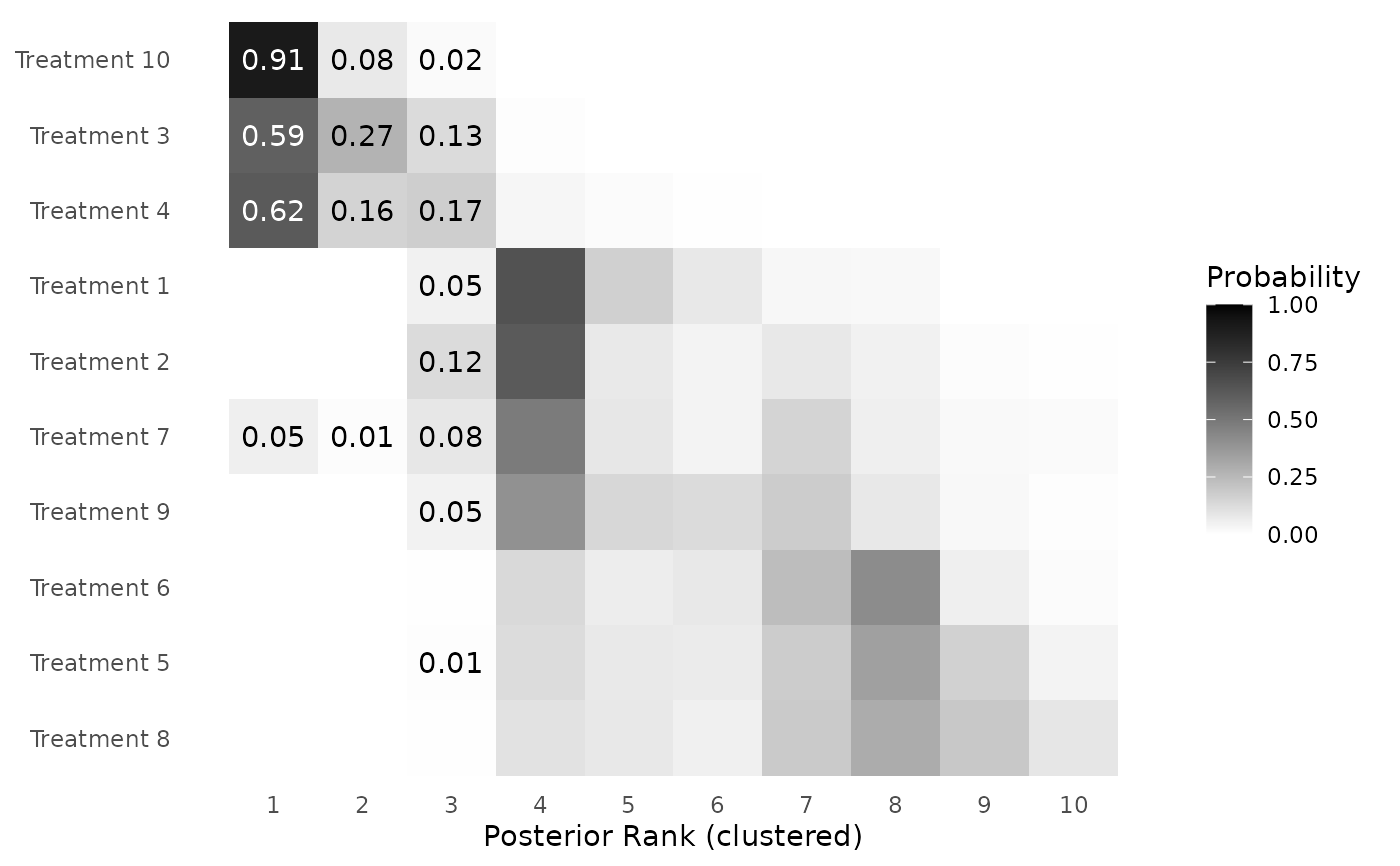
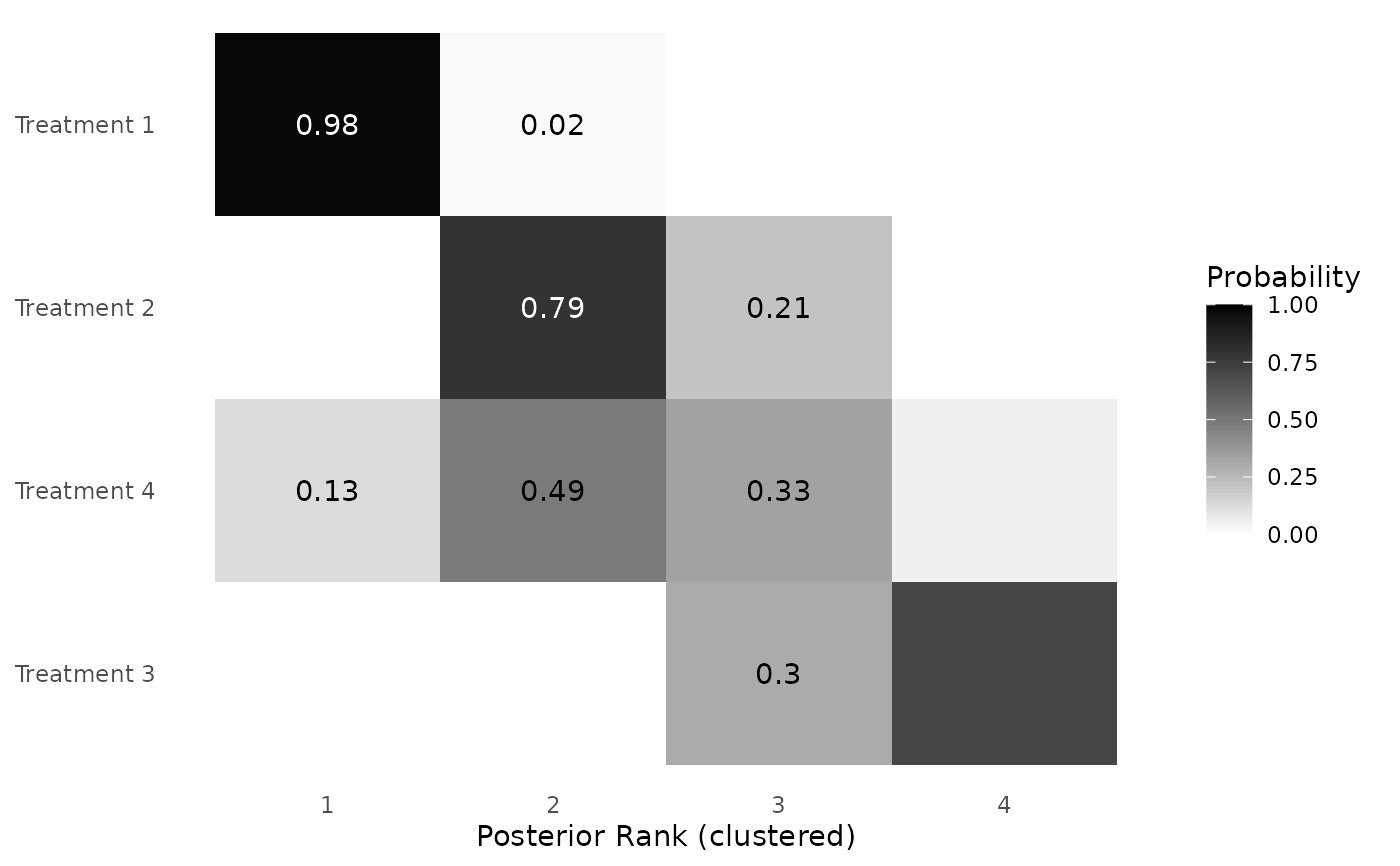
Deploying to gh-pages from @ pearce790/RaCE.NMA@8be2d29c6669a08feefa028acdc80fd268c92a4a 🚀

diff --git a/articles/reproducibility.html b/articles/reproducibility.html
@@ -92,7 +92,8 @@
 in the paper associated with this R package. Specifically, we reproduce
 two simulation studies (Sections 3.1 and 3.2) and a case study (Section
 4). We assume knowledge of the associated R package functions; please
-refer to the “Tutorial” and “Reference” pages for more information.</p>
+refer to the “Tutorial” and “Reference” pages for more information. No
+figures are produced; see paper.</p>
 <div class="section level2">
 <h2 id="reproduction-of-simulation-study-1-section-3-1">Reproduction of Simulation Study 1 (Section 3.1)<a class="anchor" aria-label="anchor" href="#reproduction-of-simulation-study-1-section-3-1"></a>
 </h2>
@@ -117,7 +118,6 @@ refer to the “Tutorial” and “Reference” pages for more information.</p>
 <span>  <span class="fu"><a href="https://ggplot2.tidyverse.org/reference/ggtheme.html" class="external-link">theme_bw</a></span><span class="op">(</span><span class="op">)</span><span class="op">+</span><span class="fu"><a href="https://ggplot2.tidyverse.org/reference/labs.html" class="external-link">labs</a></span><span class="op">(</span>x<span class="op">=</span><span class="st">" "</span>,y<span class="op">=</span><span class="cn">NULL</span>,subtitle<span class="op">=</span><span class="fu"><a href="https://rdrr.io/r/base/expression.html" class="external-link">expression</a></span><span class="op">(</span><span class="fu"><a href="https://rdrr.io/r/stats/influence.measures.html" class="external-link">hat</a></span><span class="op">(</span><span class="va">sigma</span><span class="op">)</span><span class="op">~</span><span class="st">"=0.5"</span><span class="op">)</span><span class="op">)</span><span class="op">+</span></span>
 <span>  <span class="fu"><a href="https://ggplot2.tidyverse.org/reference/theme.html" class="external-link">theme</a></span><span class="op">(</span>panel.grid.minor <span class="op">=</span> <span class="fu"><a href="https://ggplot2.tidyverse.org/reference/element.html" class="external-link">element_blank</a></span><span class="op">(</span><span class="op">)</span>,panel.grid.major.y <span class="op">=</span> <span class="fu"><a href="https://ggplot2.tidyverse.org/reference/element.html" class="external-link">element_blank</a></span><span class="op">(</span><span class="op">)</span><span class="op">)</span></span>
 <span><span class="fu"><a href="https://rdrr.io/pkg/gridExtra/man/arrangeGrob.html" class="external-link">grid.arrange</a></span><span class="op">(</span><span class="va">g1a</span>,<span class="va">g1b</span>,<span class="va">g1c</span>,nrow<span class="op">=</span><span class="fl">1</span><span class="op">)</span></span></code></pre></div>
-<p><img src="reproducibility_files/figure-html/unnamed-chunk-3-1.png" class="r-plt" alt="" width="700"></p>
 <p>The following code reproduces Figure 2: First, we perform a
 simulation study. Second, we create the figure.</p>
 <div class="sourceCode" id="cb3"><pre class="downlit sourceCode r">
@@ -183,7 +183,6 @@ simulation study. Second, we create the figure.</p>
 <span>  <span class="fu"><a href="https://ggplot2.tidyverse.org/reference/theme.html" class="external-link">theme</a></span><span class="op">(</span>legend.position <span class="op">=</span> <span class="st">"bottom"</span>,</span>
 <span>        panel.grid.minor <span class="op">=</span> <span class="fu"><a href="https://ggplot2.tidyverse.org/reference/element.html" class="external-link">element_blank</a></span><span class="op">(</span><span class="op">)</span>,</span>
 <span>        panel.grid.major.x <span class="op">=</span> <span class="fu"><a href="https://ggplot2.tidyverse.org/reference/element.html" class="external-link">element_blank</a></span><span class="op">(</span><span class="op">)</span><span class="op">)</span></span></code></pre></div>
-<p><img src="reproducibility_files/figure-html/unnamed-chunk-5-1.png" class="r-plt" alt="" width="700"></p>
 </div>
 <div class="section level2">
 <h2 id="reproduction-of-simulation-study-2-section-3-2">Reproduction of Simulation Study 2 (Section 3.2)<a class="anchor" aria-label="anchor" href="#reproduction-of-simulation-study-2-section-3-2"></a>
@@ -198,7 +197,6 @@ simulation study. Second, we create the figure.</p>
 <span><span class="va">data</span> <span class="op">&lt;-</span> <span class="fu"><a href="https://rdrr.io/r/base/matrix.html" class="external-link">matrix</a></span><span class="op">(</span>data <span class="op">=</span> <span class="fu"><a href="https://rdrr.io/r/stats/Normal.html" class="external-link">rnorm</a></span><span class="op">(</span><span class="fl">10000</span><span class="op">*</span><span class="fl">4</span>,mean<span class="op">=</span><span class="va">mu_hat</span>,sd<span class="op">=</span><span class="va">s</span><span class="op">)</span>, ncol <span class="op">=</span> <span class="fl">4</span>, byrow <span class="op">=</span> <span class="cn">TRUE</span><span class="op">)</span></span>
 <span></span>
 <span><span class="fu"><a href="../reference/forestplot_muhat.html">forestplot_muhat</a></span><span class="op">(</span>data <span class="op">=</span> <span class="va">data</span>, order_by_average <span class="op">=</span> <span class="cn">FALSE</span><span class="op">)</span></span></code></pre></div>
-<p><img src="reproducibility_files/figure-html/unnamed-chunk-6-1.png" class="r-plt" alt="" width="700"></p>
 <p>The following code reproduces Table 1: First, we fit the RaCE model
 to the simulated data. Second, we calculate and display the values in
 Table 1.</p>
@@ -211,12 +209,7 @@ Table 1.</p>
 <span><span class="kw">for</span><span class="op">(</span><span class="va">i</span> <span class="kw">in</span> <span class="fl">1</span><span class="op">:</span><span class="op">(</span><span class="va">J</span><span class="op">-</span><span class="fl">1</span><span class="op">)</span><span class="op">)</span><span class="op">{</span><span class="kw">for</span><span class="op">(</span><span class="va">j</span> <span class="kw">in</span> <span class="op">(</span><span class="va">i</span><span class="op">+</span><span class="fl">1</span><span class="op">)</span><span class="op">:</span><span class="va">J</span><span class="op">)</span><span class="op">{</span></span>
 <span>  <span class="va">posterior_equal</span><span class="op">[</span><span class="va">i</span>,<span class="va">j</span><span class="op">]</span> <span class="op">&lt;-</span> <span class="fu"><a href="https://rdrr.io/r/base/mean.html" class="external-link">mean</a></span><span class="op">(</span><span class="va">mcmc</span><span class="op">[</span>,<span class="fu"><a href="https://rdrr.io/r/base/paste.html" class="external-link">paste0</a></span><span class="op">(</span><span class="st">"G"</span>,<span class="va">i</span><span class="op">)</span><span class="op">]</span> <span class="op">==</span> <span class="va">mcmc</span><span class="op">[</span>,<span class="fu"><a href="https://rdrr.io/r/base/paste.html" class="external-link">paste0</a></span><span class="op">(</span><span class="st">"G"</span>,<span class="va">j</span><span class="op">)</span><span class="op">]</span><span class="op">)</span></span>
 <span><span class="op">}</span><span class="op">}</span></span>
-<span><span class="fu"><a href="https://rdrr.io/r/base/Round.html" class="external-link">round</a></span><span class="op">(</span><span class="va">posterior_equal</span>,<span class="fl">2</span><span class="op">)</span></span>
-<span><span class="co">##      [,1] [,2] [,3] [,4]</span></span>
-<span><span class="co">## [1,]   NA    0    0 0.18</span></span>
-<span><span class="co">## [2,]   NA   NA    0 0.40</span></span>
-<span><span class="co">## [3,]   NA   NA   NA 0.19</span></span>
-<span><span class="co">## [4,]   NA   NA   NA   NA</span></span></code></pre></div>
+<span><span class="fu"><a href="https://rdrr.io/r/base/Round.html" class="external-link">round</a></span><span class="op">(</span><span class="va">posterior_equal</span>,<span class="fl">2</span><span class="op">)</span></span></code></pre></div>
 <p>The following code reproduces Figure 4: First, we calculate the
 posterior rank-clustering probability under a traditional model (i.e.,
 assumption of distinct ranks). Second, we calculate the posterior
@@ -263,7 +256,6 @@ the figure.</p>
 <span>                    labels <span class="op">=</span> <span class="fu"><a href="https://rdrr.io/r/base/c.html" class="external-link">c</a></span><span class="op">(</span><span class="st">'A'</span>, <span class="st">'B'</span><span class="op">)</span>, label_size <span class="op">=</span> <span class="fl">12</span><span class="op">)</span>,</span>
 <span>          <span class="fu"><a href="https://wilkelab.org/cowplot/reference/get_plot_component.html" class="external-link">get_plot_component</a></span><span class="op">(</span><span class="va">g4a</span>, <span class="st">'guide-box-bottom'</span>, return_all <span class="op">=</span> <span class="cn">TRUE</span><span class="op">)</span>,</span>
 <span>          nrow<span class="op">=</span><span class="fl">2</span>,rel_heights <span class="op">=</span> <span class="fu"><a href="https://rdrr.io/r/base/c.html" class="external-link">c</a></span><span class="op">(</span><span class="fl">.9</span>,<span class="fl">.1</span><span class="op">)</span> <span class="op">)</span></span></code></pre></div>
-<p><img src="reproducibility_files/figure-html/fig.asp-0.6-1.png" class="r-plt" alt="" width="700"></p>
 </div>
 <div class="section level2">
 <h2 id="reproduction-of-case-study-section-4">Reproduction of Case Study (Section 4)<a class="anchor" aria-label="anchor" href="#reproduction-of-case-study-section-4"></a>
@@ -287,7 +279,6 @@ the mean and covariances of the relative treatment effects.</p>
 <p>The following code chunk reproduces Figure 5.</p>
 <div class="sourceCode" id="cb9"><pre class="downlit sourceCode r">
 <code class="sourceCode R"><span><span class="fu"><a href="../reference/forestplot_muhat.html">forestplot_muhat</a></span><span class="op">(</span>data<span class="op">=</span><span class="va">wang_posterior</span>,names<span class="op">=</span><span class="va">treatments</span><span class="op">[</span><span class="op">-</span><span class="fl">1</span><span class="op">]</span><span class="op">)</span></span></code></pre></div>
-<p><img src="reproducibility_files/figure-html/unnamed-chunk-9-1.png" class="r-plt" alt="" width="700"></p>
 <p>Next, we fit the RaCE model to estimated relative treatment effects
 from Wang et al. (2022).</p>
 <div class="sourceCode" id="cb10"><pre class="downlit sourceCode r">
@@ -308,10 +299,8 @@ create each in turn.</p>
 <span>                    <span class="va">g9b</span><span class="op">+</span><span class="fu"><a href="https://ggplot2.tidyverse.org/reference/theme.html" class="external-link">theme</a></span><span class="op">(</span>legend.position <span class="op">=</span> <span class="st">"none"</span><span class="op">)</span>, </span>
 <span>                    labels <span class="op">=</span> <span class="fu"><a href="https://rdrr.io/r/base/c.html" class="external-link">c</a></span><span class="op">(</span><span class="st">'A'</span>, <span class="st">'B'</span><span class="op">)</span>, label_size <span class="op">=</span> <span class="fl">12</span><span class="op">)</span>,</span>
 <span>          <span class="fu"><a href="https://wilkelab.org/cowplot/reference/get_plot_component.html" class="external-link">get_plot_component</a></span><span class="op">(</span><span class="va">g9a</span>, <span class="st">'guide-box-bottom'</span>, return_all <span class="op">=</span> <span class="cn">TRUE</span><span class="op">)</span>,</span>
-<span>          nrow<span class="op">=</span><span class="fl">2</span>,rel_heights <span class="op">=</span> <span class="fu"><a href="https://rdrr.io/r/base/c.html" class="external-link">c</a></span><span class="op">(</span><span class="fl">.9</span>,<span class="fl">.1</span><span class="op">)</span><span class="op">)</span></span></code></pre></div>
-<p><img src="reproducibility_files/figure-html/unnamed-chunk-11-1.png" class="r-plt" alt="" width="700"></p>
-<div class="sourceCode" id="cb12"><pre class="downlit sourceCode r">
-<code class="sourceCode R"><span><span class="co"># Figure 7</span></span>
+<span>          nrow<span class="op">=</span><span class="fl">2</span>,rel_heights <span class="op">=</span> <span class="fu"><a href="https://rdrr.io/r/base/c.html" class="external-link">c</a></span><span class="op">(</span><span class="fl">.9</span>,<span class="fl">.1</span><span class="op">)</span><span class="op">)</span></span>
+<span><span class="co"># Figure 7</span></span>
 <span><span class="va">g10a</span> <span class="op">&lt;-</span> <span class="fu"><a href="../reference/cumulativeprobplot_ranks.html">cumulativeprobplot_ranks</a></span><span class="op">(</span>data<span class="op">=</span><span class="fu"><a href="https://rdrr.io/r/base/cbind.html" class="external-link">cbind</a></span><span class="op">(</span><span class="fl">0</span>,<span class="va">wang_posterior</span><span class="op">)</span>,names<span class="op">=</span><span class="va">treatments</span><span class="op">)</span><span class="op">+</span></span>
 <span>  <span class="fu"><a href="https://ggplot2.tidyverse.org/reference/theme.html" class="external-link">theme</a></span><span class="op">(</span>legend.position <span class="op">=</span> <span class="st">"bottom"</span><span class="op">)</span> <span class="op">+</span></span>
 <span>  <span class="fu"><a href="https://ggplot2.tidyverse.org/reference/guides.html" class="external-link">guides</a></span><span class="op">(</span>color <span class="op">=</span> <span class="fu"><a href="https://ggplot2.tidyverse.org/reference/guide_legend.html" class="external-link">guide_legend</a></span><span class="op">(</span>nrow <span class="op">=</span> <span class="fl">2</span><span class="op">)</span><span class="op">)</span></span>
@@ -319,43 +308,24 @@ create each in turn.</p>
 <span><span class="fu"><a href="https://wilkelab.org/cowplot/reference/plot_grid.html" class="external-link">plot_grid</a></span><span class="op">(</span><span class="fu"><a href="https://wilkelab.org/cowplot/reference/plot_grid.html" class="external-link">plot_grid</a></span><span class="op">(</span><span class="va">g10a</span><span class="op">+</span><span class="fu"><a href="https://ggplot2.tidyverse.org/reference/theme.html" class="external-link">theme</a></span><span class="op">(</span>legend.position <span class="op">=</span> <span class="st">"none"</span><span class="op">)</span>, <span class="va">g10b</span><span class="op">+</span><span class="fu"><a href="https://ggplot2.tidyverse.org/reference/theme.html" class="external-link">theme</a></span><span class="op">(</span>legend.position <span class="op">=</span> <span class="st">"none"</span><span class="op">)</span>, </span>
 <span>                        labels <span class="op">=</span> <span class="fu"><a href="https://rdrr.io/r/base/c.html" class="external-link">c</a></span><span class="op">(</span><span class="st">'A'</span>, <span class="st">'B'</span><span class="op">)</span>, label_size <span class="op">=</span> <span class="fl">12</span><span class="op">)</span>,</span>
 <span>              <span class="fu"><a href="https://wilkelab.org/cowplot/reference/get_plot_component.html" class="external-link">get_plot_component</a></span><span class="op">(</span><span class="va">g10a</span>, <span class="st">'guide-box-bottom'</span>, return_all <span class="op">=</span> <span class="cn">TRUE</span><span class="op">)</span>,</span>
-<span>          nrow<span class="op">=</span><span class="fl">2</span>,rel_heights <span class="op">=</span> <span class="fu"><a href="https://rdrr.io/r/base/c.html" class="external-link">c</a></span><span class="op">(</span><span class="fl">.85</span>,<span class="fl">.15</span><span class="op">)</span> <span class="op">)</span></span></code></pre></div>
-<p><img src="reproducibility_files/figure-html/unnamed-chunk-11-2.png" class="r-plt" alt="" width="700"></p>
-<div class="sourceCode" id="cb13"><pre class="downlit sourceCode r">
-<code class="sourceCode R"><span><span class="co"># Table 2</span></span>
+<span>          nrow<span class="op">=</span><span class="fl">2</span>,rel_heights <span class="op">=</span> <span class="fu"><a href="https://rdrr.io/r/base/c.html" class="external-link">c</a></span><span class="op">(</span><span class="fl">.85</span>,<span class="fl">.15</span><span class="op">)</span> <span class="op">)</span></span>
+<span><span class="co"># Table 2</span></span>
 <span><span class="va">res_WANG</span> <span class="op">&lt;-</span> <span class="fu"><a href="../reference/calculate_SUCRA_MNBT.html">calculate_SUCRA_MNBT</a></span><span class="op">(</span>data <span class="op">=</span> <span class="fu"><a href="https://rdrr.io/r/base/cbind.html" class="external-link">cbind</a></span><span class="op">(</span><span class="fl">0</span>,<span class="va">wang_posterior</span><span class="op">)</span>,</span>
 <span>                                 level <span class="op">=</span> <span class="fl">0.50</span>, names <span class="op">=</span> <span class="va">treatments</span><span class="op">)</span></span>
 <span><span class="va">res_RaCENMA</span> <span class="op">&lt;-</span> <span class="fu"><a href="../reference/calculate_SUCRA_MNBT.html">calculate_SUCRA_MNBT</a></span><span class="op">(</span>mcmc <span class="op">=</span> <span class="va">mcmc</span>, level <span class="op">=</span> <span class="fl">0.50</span>, names <span class="op">=</span> <span class="va">treatments</span><span class="op">)</span></span>
 <span><span class="va">table2</span> <span class="op">&lt;-</span> <span class="fu"><a href="https://dplyr.tidyverse.org/reference/mutate-joins.html" class="external-link">left_join</a></span><span class="op">(</span><span class="va">res_WANG</span>,<span class="va">res_RaCENMA</span>,by<span class="op">=</span><span class="st">"Treatment"</span><span class="op">)</span><span class="op">[</span>,<span class="fu"><a href="https://rdrr.io/r/base/c.html" class="external-link">c</a></span><span class="op">(</span><span class="fl">1</span>,<span class="fl">2</span>,<span class="fl">4</span>,<span class="fl">3</span>,<span class="fl">5</span><span class="op">)</span><span class="op">]</span></span>
 <span><span class="fu"><a href="https://rdrr.io/r/base/names.html" class="external-link">names</a></span><span class="op">(</span><span class="va">table2</span><span class="op">)</span> <span class="op">&lt;-</span> <span class="fu"><a href="https://rdrr.io/r/base/c.html" class="external-link">c</a></span><span class="op">(</span><span class="st">"Treatment"</span>,<span class="st">"SUCRA (Wang)"</span>,<span class="st">"SUCRA (RaCE)"</span>,<span class="st">"MNBT (Wang)"</span>,<span class="st">"MNBT (RaCE)"</span><span class="op">)</span></span>
-<span><span class="fu"><a href="https://rdrr.io/r/base/print.html" class="external-link">print</a></span><span class="op">(</span><span class="va">table2</span><span class="op">)</span></span>
-<span><span class="co">##     Treatment SUCRA (Wang) SUCRA (RaCE) MNBT (Wang) MNBT (RaCE)</span></span>
-<span><span class="co">## 1   G-Benda-G   0.96674667    0.9923444    0 (0, 1)    0 (0, 0)</span></span>
-<span><span class="co">## 2  R-Benda-R4   0.88424167    0.9427304    1 (0, 1)    0 (0, 1)</span></span>
-<span><span class="co">## 3   R-Benda-R   0.81178500    0.9245186    2 (2, 2)    1 (0, 1)</span></span>
-<span><span class="co">## 4    G-CHOP-G   0.66349833    0.6473594    3 (3, 4)    3 (3, 4)</span></span>
-<span><span class="co">## 5    R-CHOP-R   0.51395000    0.6574624    5 (4, 5)    3 (3, 4)</span></span>
-<span><span class="co">## 6    R-2(Len)   0.50069000    0.6042736    5 (4, 6)    3 (3, 5)</span></span>
-<span><span class="co">## 7     R-Benda   0.48215000    0.6565974    5 (4, 6)    3 (3, 4)</span></span>
-<span><span class="co">## 8     G-CVP-G   0.27813667    0.2760538    7 (6, 8)    7 (7, 8)</span></span>
-<span><span class="co">## 9      R-CHOP   0.18591667    0.2787232    8 (7, 9)    7 (7, 8)</span></span>
-<span><span class="co">## 10    R-CVP-R   0.15917167    0.2958426    8 (8, 9)    7 (7, 7)</span></span>
-<span><span class="co">## 11      R-CVP   0.05371333    0.2644622  10 (9, 10)    7 (7, 8)</span></span></code></pre></div>
+<span><span class="fu"><a href="https://rdrr.io/r/base/print.html" class="external-link">print</a></span><span class="op">(</span><span class="va">table2</span><span class="op">)</span></span></code></pre></div>
 <p>The following code chunk reproduces the Figures 8–10 (Appendix
 B).</p>
-<div class="sourceCode" id="cb14"><pre class="downlit sourceCode r">
+<div class="sourceCode" id="cb12"><pre class="downlit sourceCode r">
 <code class="sourceCode R"><span><span class="fu"><a href="../reference/traceplot_K.html">traceplot_K</a></span><span class="op">(</span><span class="va">mcmc</span><span class="op">)</span><span class="op">+</span></span>
 <span>  <span class="fu"><a href="https://ggplot2.tidyverse.org/reference/scale_continuous.html" class="external-link">scale_x_continuous</a></span><span class="op">(</span>breaks<span class="op">=</span><span class="fu"><a href="https://rdrr.io/r/base/seq.html" class="external-link">seq</a></span><span class="op">(</span><span class="fl">125000</span>,<span class="fl">250000</span>,by<span class="op">=</span><span class="fl">25000</span><span class="op">)</span>,</span>
-<span>                     labels<span class="op">=</span><span class="fu"><a href="https://rdrr.io/r/base/paste.html" class="external-link">paste0</a></span><span class="op">(</span><span class="fu"><a href="https://rdrr.io/r/base/seq.html" class="external-link">seq</a></span><span class="op">(</span><span class="fl">125</span>,<span class="fl">250</span>,by<span class="op">=</span><span class="fl">25</span><span class="op">)</span>,<span class="st">"k"</span><span class="op">)</span><span class="op">)</span></span></code></pre></div>
-<p><img src="reproducibility_files/figure-html/unnamed-chunk-12-1.png" class="r-plt" alt="" width="700"></p>
-<div class="sourceCode" id="cb15"><pre class="downlit sourceCode r">
-<code class="sourceCode R"><span><span class="fu"><a href="../reference/traceplot_mu.html">traceplot_mu</a></span><span class="op">(</span><span class="va">mcmc</span>,names<span class="op">=</span><span class="va">treatments</span><span class="op">)</span><span class="op">+</span></span>
+<span>                     labels<span class="op">=</span><span class="fu"><a href="https://rdrr.io/r/base/paste.html" class="external-link">paste0</a></span><span class="op">(</span><span class="fu"><a href="https://rdrr.io/r/base/seq.html" class="external-link">seq</a></span><span class="op">(</span><span class="fl">125</span>,<span class="fl">250</span>,by<span class="op">=</span><span class="fl">25</span><span class="op">)</span>,<span class="st">"k"</span><span class="op">)</span><span class="op">)</span></span>
+<span><span class="fu"><a href="../reference/traceplot_mu.html">traceplot_mu</a></span><span class="op">(</span><span class="va">mcmc</span>,names<span class="op">=</span><span class="va">treatments</span><span class="op">)</span><span class="op">+</span></span>
 <span>  <span class="fu"><a href="https://ggplot2.tidyverse.org/reference/scale_continuous.html" class="external-link">scale_x_continuous</a></span><span class="op">(</span>breaks<span class="op">=</span><span class="fu"><a href="https://rdrr.io/r/base/seq.html" class="external-link">seq</a></span><span class="op">(</span><span class="fl">125000</span>,<span class="fl">250000</span>,by<span class="op">=</span><span class="fl">25000</span><span class="op">)</span>,</span>
-<span>                     labels<span class="op">=</span><span class="fu"><a href="https://rdrr.io/r/base/paste.html" class="external-link">paste0</a></span><span class="op">(</span><span class="fu"><a href="https://rdrr.io/r/base/seq.html" class="external-link">seq</a></span><span class="op">(</span><span class="fl">125</span>,<span class="fl">250</span>,by<span class="op">=</span><span class="fl">25</span><span class="op">)</span>,<span class="st">"k"</span><span class="op">)</span><span class="op">)</span></span></code></pre></div>
-<p><img src="reproducibility_files/figure-html/unnamed-chunk-12-2.png" class="r-plt" alt="" width="700"></p>
-<div class="sourceCode" id="cb16"><pre class="downlit sourceCode r">
-<code class="sourceCode R"><span><span class="fu"><a href="../reference/forestplot_muhat.html">forestplot_muhat</a></span><span class="op">(</span>mcmc<span class="op">=</span><span class="va">mcmc</span>,names<span class="op">=</span><span class="va">treatments</span><span class="op">)</span></span></code></pre></div>
-<p><img src="reproducibility_files/figure-html/unnamed-chunk-12-3.png" class="r-plt" alt="" width="700"></p>
+<span>                     labels<span class="op">=</span><span class="fu"><a href="https://rdrr.io/r/base/paste.html" class="external-link">paste0</a></span><span class="op">(</span><span class="fu"><a href="https://rdrr.io/r/base/seq.html" class="external-link">seq</a></span><span class="op">(</span><span class="fl">125</span>,<span class="fl">250</span>,by<span class="op">=</span><span class="fl">25</span><span class="op">)</span>,<span class="st">"k"</span><span class="op">)</span><span class="op">)</span></span>
+<span><span class="fu"><a href="../reference/forestplot_muhat.html">forestplot_muhat</a></span><span class="op">(</span>mcmc<span class="op">=</span><span class="va">mcmc</span>,names<span class="op">=</span><span class="va">treatments</span><span class="op">)</span></span></code></pre></div>
 </div>
   </div>
 

diff --git a/reference/clusterplot_ranks.html b/reference/clusterplot_ranks.html
@@ -89,8 +89,8 @@
 
     <div id="ref-examples">
     <h2>Examples</h2>
-    <div class="sourceCode"><pre class="sourceCode r"><code><span class="r-in"><span><span class="fu"><a href="https://rdrr.io/r/utils/data.html" class="external-link">data</a></span><span class="op">(</span><span class="st">"wang_posterior"</span><span class="op">)</span></span></span>
-<span class="r-in"><span><span class="va">mcmc</span> <span class="op">&lt;-</span> <span class="fu"><a href="mcmc_raceNMA.html">mcmc_raceNMA</a></span><span class="op">(</span>posterior<span class="op">=</span><span class="va">wang_posterior</span>,iter<span class="op">=</span><span class="fl">2000</span><span class="op">)</span></span></span>
+    <div class="sourceCode"><pre class="sourceCode r"><code><span class="r-in"><span><span class="fu"><a href="https://rdrr.io/r/utils/data.html" class="external-link">data</a></span><span class="op">(</span><span class="st">"toy_data"</span><span class="op">)</span></span></span>
+<span class="r-in"><span><span class="va">mcmc</span> <span class="op">&lt;-</span> <span class="fu"><a href="mcmc_raceNMA.html">mcmc_raceNMA</a></span><span class="op">(</span>posterior<span class="op">=</span><span class="va">toy_data</span>,iter<span class="op">=</span><span class="fl">500</span><span class="op">)</span></span></span>
 <span class="r-out co"><span class="r-pr">#&gt;</span> [1] "Estimating chain 1 of 2."</span>
 <span class="r-out co"><span class="r-pr">#&gt;</span> [1] "Estimating chain 2 of 2."</span>
 <span class="r-in"><span><span class="fu">clusterplot_ranks</span><span class="op">(</span>mcmc<span class="op">=</span><span class="va">mcmc</span>,names<span class="op">=</span><span class="fu"><a href="https://rdrr.io/r/base/paste.html" class="external-link">paste0</a></span><span class="op">(</span><span class="st">"Treatment "</span>,<span class="fl">1</span><span class="op">:</span><span class="fl">10</span><span class="op">)</span>,label_ranks<span class="op">=</span><span class="fl">1</span><span class="op">:</span><span class="fl">3</span><span class="op">)</span></span></span>

diff --git a/news/index.html b/news/index.html
@@ -55,7 +55,8 @@
 
     <div class="section level2">
 <h2 class="page-header" data-toc-text="1.0.0" id="racenma-100">RaCE.NMA 1.0.0<a class="anchor" aria-label="anchor" href="#racenma-100"></a></h2>
-</div>
+<ul><li>Initial CRAN submission.</li>
+</ul></div>
   </div>
 
   <div class="col-md-3 hidden-xs hidden-sm" id="pkgdown-sidebar">

diff --git a/articles/tutorial.html b/articles/tutorial.html
@@ -429,7 +429,7 @@ included in the <code>RaCE.NMA</code> package and can be loaded using
 the following code:</p>
 <div class="sourceCode" id="cb15"><pre class="downlit sourceCode r">
 <code class="sourceCode R"><span><span class="fu"><a href="https://rdrr.io/r/utils/data.html" class="external-link">data</a></span><span class="op">(</span><span class="st">"wang_posterior"</span><span class="op">)</span></span>
-<span><span class="fu"><a href="https://rdrr.io/r/utils/head.html" class="external-link">head</a></span><span class="op">(</span><span class="va">wang_posterior</span><span class="op">)</span> <span class="op"><a href="https://magrittr.tidyverse.org/reference/pipe.html" class="external-link">%&gt;%</a></span> <span class="fu"><a href="https://rdrr.io/r/base/Round.html" class="external-link">round</a></span><span class="op">(</span><span class="fl">3</span><span class="op">)</span></span>
+<span><span class="fu"><a href="https://rdrr.io/r/base/Round.html" class="external-link">round</a></span><span class="op">(</span><span class="fu"><a href="https://rdrr.io/r/utils/head.html" class="external-link">head</a></span><span class="op">(</span><span class="va">wang_posterior</span><span class="op">)</span>, <span class="fl">3</span><span class="op">)</span></span>
 <span><span class="co">#&gt;   R-CHOP-R R-Benda R-Benda-R R-Benda-R4 R-CVP R-CVP-R R-2(Len) G-CVP-G G-CHOP-G</span></span>
 <span><span class="co">#&gt; 1   -0.471  -0.378    -0.986     -1.619 0.321   0.126   -0.314  -0.107   -0.698</span></span>
 <span><span class="co">#&gt; 2   -0.425  -0.427    -1.060     -1.454 0.224   0.019   -0.390  -0.166   -0.572</span></span>